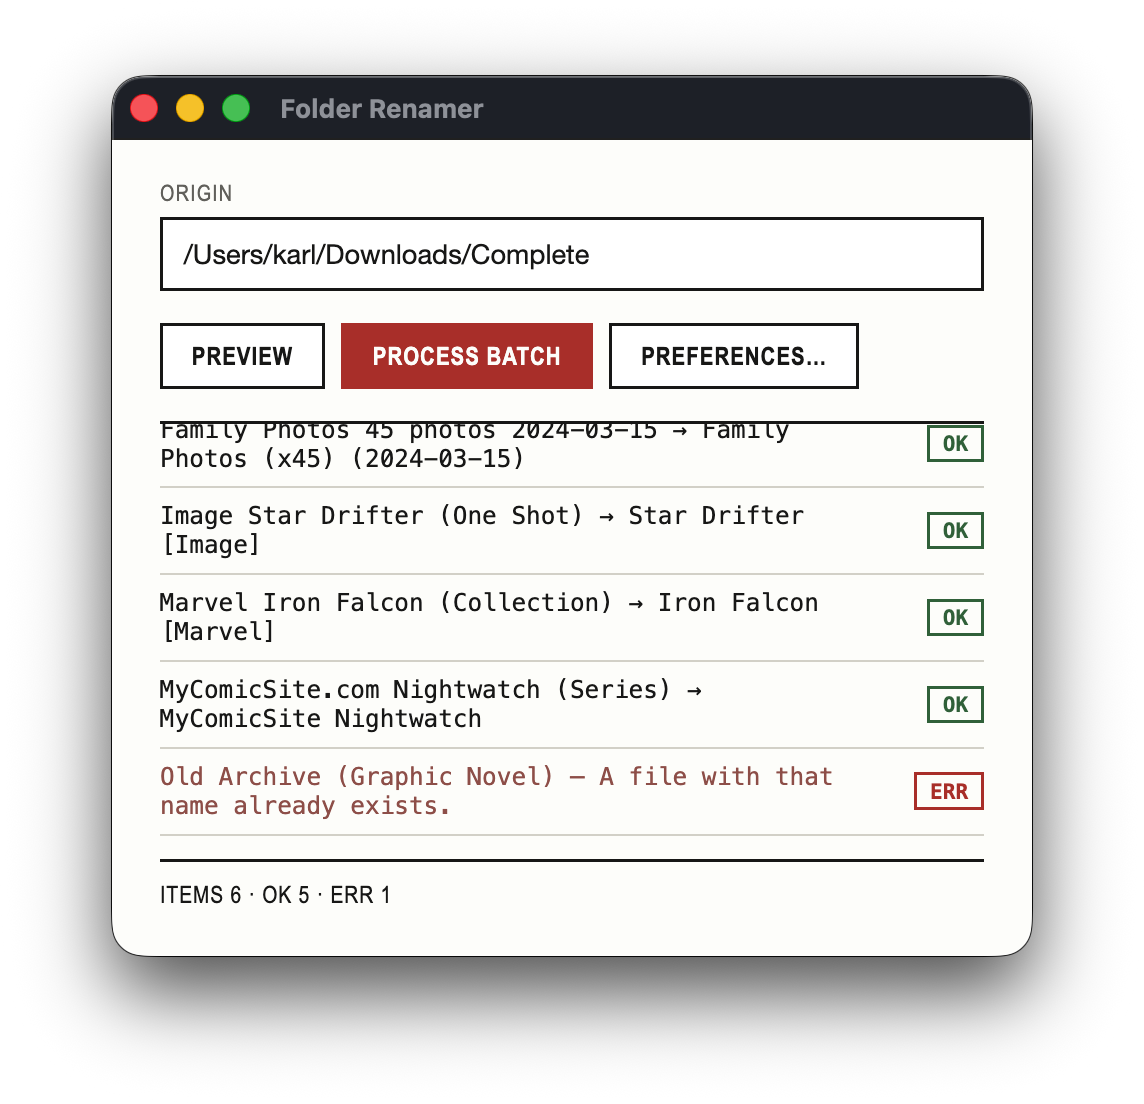
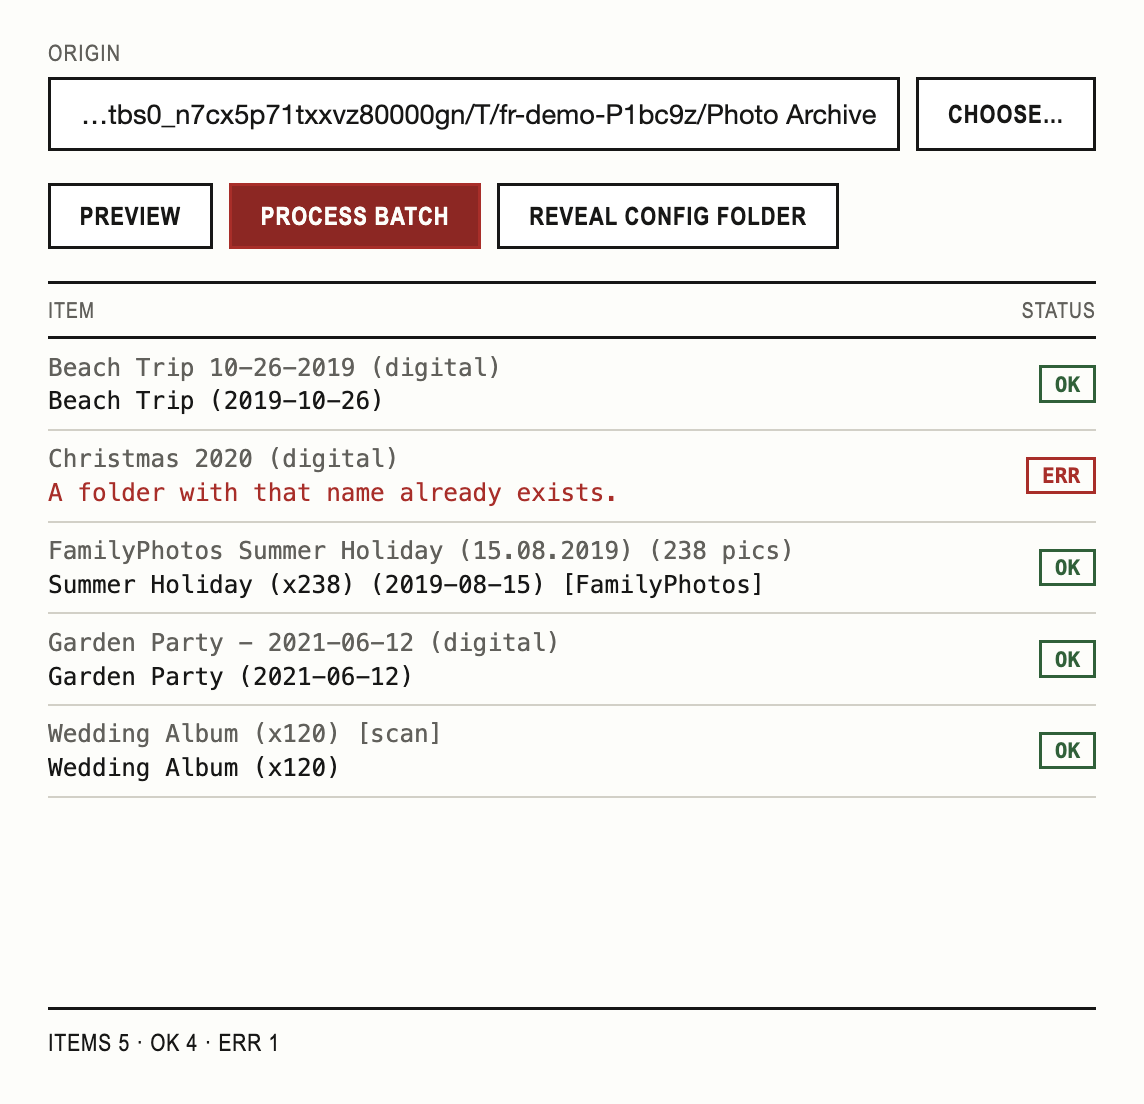
docs: prose lint and update project info

Changed region(s): [[0.0306, 0.0616, 0.979, 0.9547], [0.5201, 0.6775, 0.7343, 0.7391], [0.0306, 0.0308, 0.0918, 0.0924]]

diff --git a/README.md b/README.md
@@ -1,27 +1,28 @@
 # Folder Renamer
 
-A Node.js CLI that batch-renames folders — cleaning up dates, image counts, and known prefixes so messy photo and scan archives end up consistently named.
+Batch-renames folders to clean up dates, image counts and known prefixes. It runs from the command line or as a desktop app.
 
 ## Screenshots and demo
 
-![Folder Renamer's desktop app after processing a batch of folders, showing successful renames and one handled error](public/demo.png)
+![Folder Renamer after a batch, with four folders renamed and one error](public/demo.png)
 
 ## Tech stack
 
-- Node.js (ES modules)
-- [Electron](https://www.electronjs.org/) for the desktop app
-- [electron-store](https://www.npmjs.com/package/electron-store) for persisted app settings
-- [dotenv](https://www.npmjs.com/package/dotenv) for the CLI's environment configuration
-- [Vitest](https://vitest.dev/) for testing
+- [Node.js](https://nodejs.org/) (ES modules)
+- [Electron](https://www.electronjs.org/)
+- [electron-builder](https://www.electron.build/)
+- [electron-store](https://www.npmjs.com/package/electron-store)
+- [dotenv](https://www.npmjs.com/package/dotenv)
+- [Vitest](https://vitest.dev/)
+- [Playwright](https://playwright.dev/)
+- [ESLint](https://eslint.org/) and [Prettier](https://prettier.io/)
 
 ## Notable decisions
 
-- **In-place renaming** — folders are renamed directly, with no undo. Back up before running.
-- **Remove and replace patterns are separate files** — `removePatterns.json` strips text (the replacement is always empty), `replacePatterns.json` substitutes text with something else. Splitting them avoids repeating `"replacement": ""` across dozens of entries.
-- **Pattern data isn't committed to git** — `src/data/*.json` holds hand-curated, personal scrubbing rules (scene-release tags, download-site cruft) that don't belong in a public repo. It's gitignored, so each clone builds its own list.
-- **The desktop app copies its config out of the app bundle on first run** — once packaged, `src/data/` is read-only, so the Electron app copies it into its own userData folder the first time it starts, and reads/writes there from then on. That way, app updates never overwrite your evolving pattern list. If `src/data/` doesn't have a file to copy — for example running the app straight from a fresh clone, before creating your own — it starts that file as an empty list instead of failing to launch.
-- **Preview/dry-run doesn't predict rename failures** — it shows what each folder would be renamed to, but not whether that rename would collide with something and fail. Accurately predicting that without attempting it is unreliable; a wrong prediction would be worse than none. Failures still show clearly when you run it.
-- **The app icon comes from `design/assets.af`** — an Affinity Designer file exported to `build/icon.png`, which electron-builder turns into the packaged app's `.icns`.
+- **In-place renaming:** renames are permanent. Back up before running.
+- **The desktop app keeps its own copy of the rules:** it copies `src/data/` to its userData folder on first run, so app updates keep your rules. A build includes the rule files in `src/data/` on the machine that built it.
+- **Preview shows target names only:** collisions show as errors when the batch runs.
+- **The app icon comes from `design/assets.af`:** an Affinity Designer file exported to `build/icon.png`.
 
 ## Local development
 
@@ -31,23 +32,38 @@ cd folder-renamer
 npm install
 ```
 
-## Configuration
+[prose-lint](https://github.com/Karl-Horning/prose-lint) checks the writing in comments and docs. It's a private repo, so remove it before installing if you don't have access. The app doesn't use it.
 
-Create a `.env` file in the project root:
-
-```env
-DIRECTORY_PATH=/absolute/path/to/folder
+```bash
+npm pkg delete devDependencies.prose-lint
+rm prose-lint.test.js
+npm install
 ```
 
-Three files in `src/data/` drive the transform. None of them ship with defaults, so all three need creating:
+## Scripts
 
-- **`prefixes.json`** — array of prefix strings to move to the end of a folder name, wrapped in `[]`.
+| Script | Description |
+| --- | --- |
+| `npm start` | Run the CLI |
+| `npm run electron` | Run the desktop app |
+| `npm run dist` | Build a distributable `.app` |
+| `npm test` | Run the unit tests and prose checks once |
+| `npm run test:watch` | Re-run the unit tests on file changes |
+| `npm run test:e2e` | Launch the desktop app and drive it end-to-end |
+| `npm run lint` | Lint the codebase |
+| `npm run format` | Format the codebase with Prettier |
+
+## Configuration
+
+Three JSON files in `src/data/` hold the rename rules. Rule files are gitignored, so create your own.
+
+- **`prefixes.json`:** prefixes to move from the start of a folder name to the end, in square brackets.
 
   ```json
   ["MyPhotos", "FamilyPhotos"]
   ```
 
-- **`removePatterns.json`** — strings or regex patterns to strip. Use `isRegex: true` for regex, `caseInsensitive: true` to match regardless of case.
+- **`removePatterns.json`:** strings or regex patterns to strip. Set `isRegex: true` for a regex. Set `caseInsensitive: true` to match any case.
 
   ```json
   [
@@ -56,7 +72,7 @@ Three files in `src/data/` drive the transform. None of them ship with defaults,
   ]
   ```
 
-- **`replacePatterns.json`** — text substitutions, where the match is replaced with something else rather than removed. Supports the same `isRegex` and `caseInsensitive` options.
+- **`replacePatterns.json`:** text to replace. It takes the same `isRegex` and `caseInsensitive` options.
 
   ```json
   [
@@ -65,34 +81,27 @@ Three files in `src/data/` drive the transform. None of them ship with defaults,
   ]
   ```
 
-Once those are in place, run the CLI:
+The CLI reads the folder to rename from a `.env` file in the project root:
+
+```env
+DIRECTORY_PATH=/absolute/path/to/folder
+```
+
+Then run the CLI. Add `-- --dry-run` to list what would be renamed.
 
 ```bash
 npm start
 ```
 
-Add `--dry-run` to preview what would be renamed without touching anything: `npm start -- --dry-run`.
-
 ## Desktop app
 
-The desktop app runs the same rename logic as the CLI, on a folder you choose in the app.
-
-Its settings and rule files are in `~/Library/Application Support/Folder Renamer/`. They are copied from `src/data/` the first time the app runs.
-
-**Preview** lists what would be renamed, like the CLI's `--dry-run`.
+The desktop app runs the same rename logic on a folder you choose. Its settings and rule files are in `~/Library/Application Support/Folder Renamer/`.
 
 ```bash
-npm run electron   # run in development
-npm run dist       # build a distributable .app
+npm run electron
 ```
 
-**First run:**
-
-1. Click **Choose…** (`Cmd+O`), or drag a folder onto the path, to pick the folder you want to clean up.
-2. The app starts with no rename rules — **Preview** and **Process Batch** won't find anything to do until you add some. Click **Reveal Config Folder** (`Cmd+Shift+R`) and edit `prefixes.json`, `removePatterns.json`, and `replacePatterns.json` there; see [Configuration](#configuration) above for the format each one expects.
-3. Click **Preview** to check what would change, then **Process Batch** to actually rename.
-
-Keyboard shortcuts (also in the menu bar):
+Click **Choose…** or drag a folder onto the path. **Reveal Config Folder** opens the rule files. **Preview** lists the changes. **Process Batch** renames the folders.
 
 | Shortcut | Action |
 | --- | --- |
@@ -100,17 +109,6 @@ Keyboard shortcuts (also in the menu bar):
 | `Cmd+Shift+P` | Preview |
 | `Cmd+Return` | Process Batch |
 | `Cmd+Shift+R` | Reveal Config Folder |
-
-## Scripts
-
-| Script | Description |
-| --- | --- |
-| `npm start` | Run the folder-renaming CLI |
-| `npm run electron` | Run the desktop app |
-| `npm run dist` | Build a distributable `.app` |
-| `npm test` | Run the unit test suite once |
-| `npm run test:watch` | Re-run unit tests on file changes |
-| `npm run test:e2e` | Launch the desktop app and drive it end-to-end |
 
 ## Feedback and issues
 
